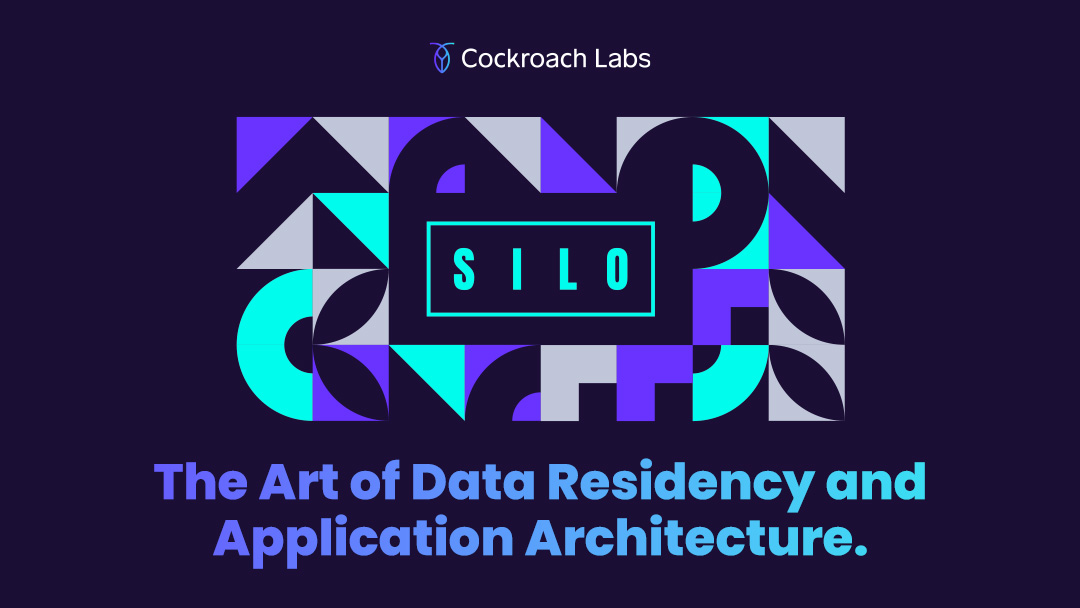
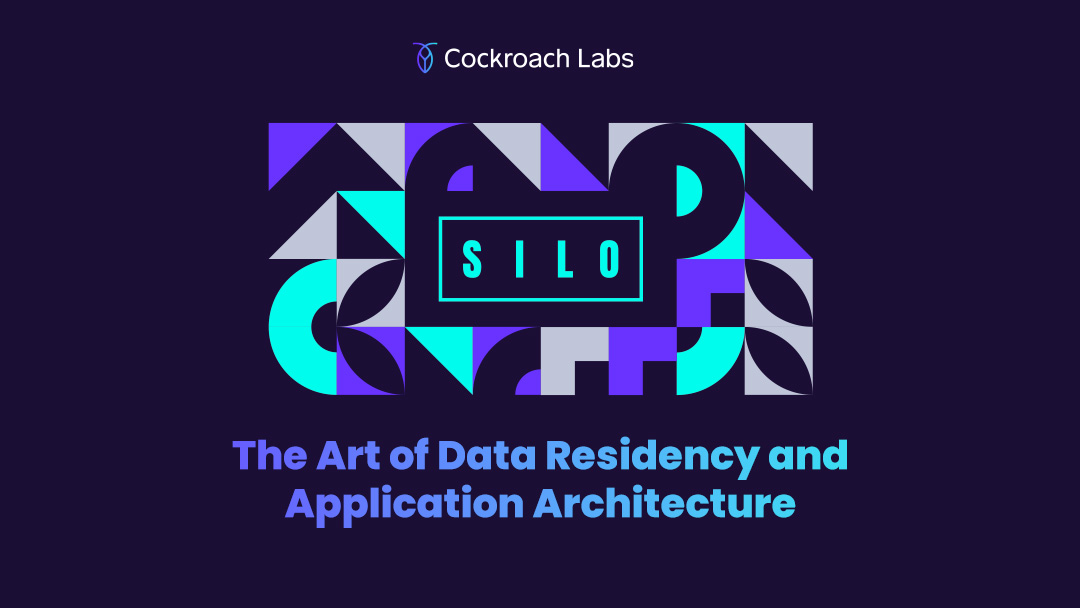
docs: update messaging from Mr Steve

Changed region(s): [[0.1222, 0.1875, 0.8556, 0.9375], [0.3667, 0.0625, 0.6111, 0.125]]

diff --git a/pages/index.js b/pages/index.js
@@ -39,7 +39,7 @@ const Page = () => {
           <SiloLockup className='mx-auto max-w-2xl ' />
           <div className='flex flex-col gap-4'>
             <h1 className='m-0 text-brand-white text-4xl md:text-6xl text-center normal-case !leading-[1.1] text-transparent bg-clip-text bg-gradient-to-r from-brand-electric-purple to-brand-iridescent-blue'>
-              The Art of Data Residency and Application Architecture.
+              The Art of Data Residency and Application Architecture
             </h1>
             <h2 className='m-0 px-4 text-brand-white text-base font-normal text-center normal-case tracking-normal font-mono font-black'>
               /* A demo of multi-region capabilities in CockroachDB. */
@@ -55,7 +55,7 @@ const Page = () => {
             <div className='flex flex-col gap-8'>
               <div className='flex flex-col gap-2'>
                 <CockroachLabsIcon className='sm:mx-auto w-16 sm:w-28' />
-                <h2 className='text-left md:text-center heading-md'>Why a Multi-Region Database?</h2>
+                <h2 className='text-left md:text-center heading-md'>Why a multi-region database?</h2>
               </div>
 
               <p className='m-0 text-left md:text-center'>
@@ -67,13 +67,13 @@ const Page = () => {
                 <CobeGlobe />
               </div>
               <p className='m-0 text-left md:text-center'>
-                Setting up and managing a multi-region database with traditional tools can be labor-intensive. But
+                Setting up and managing a multi-region database with traditional tools can be labor intensive. But
                 CockroachDB can help. A <b>distributed SQL database</b>, CockroachDB lets you pin data to specific
                 locations (servers, availability zones, or cloud regions) to optimize latency, comply with regional
                 regulations, and maintain high availability.
               </p>
               <p className='m-0 text-left md:text-center'>
-                In this demo, we illustrate CockroachDB's multi-region capabilities. We are running a{' '}
+                In this demo, we illustrate CockroachDB's multi-region capabilities. We're running a{' '}
                 <b>single logical CockroachDB serverless instance</b> spanning three AWS regions:
               </p>
               <div className='flex items-center justify-start md:justify-center'>
@@ -107,11 +107,11 @@ const Page = () => {
 
       <section className='grid md:grid-cols-2 gap-8 md:gap-16 items-center mx-auto max-w-5xl'>
         <div className='flex flex-col gap-4 md:gap-8'>
-          <h2 className='text-left md:pl-0 heading-md'>Make Your Own Art</h2>
+          <h2 className='text-left md:pl-0 heading-md'>Make your own art</h2>
           <div className='flex flex-col gap-8'>
             <p className='m-0'>
-              In this demo, you will create art that resides in specific cloud regions. Some data is stored in either
-              the <span className='text-brand-blue'>United</span> <span className='text-brand-danger'>States</span> or{' '}
+              In this demo, you'll create art that resides in specific cloud regions. Some data is stored in either the{' '}
+              <span className='text-brand-blue'>United</span> <span className='text-brand-danger'>States</span> or{' '}
               <span className='text-brand-yellow'>Europe</span>, while other data is stored in both places. That's
               because the app can write to any region from anywhere.
             </p>
@@ -136,7 +136,7 @@ const Page = () => {
             </p>
             <Link
               href='/gallery'
-              className='link-button flex gap-2 items-center border-2 border-brand-iridescent-blue text-brand-iridescent-blue capitalize no-underline transition-color duration-300 hover:text-brand-white hover:border-brand-white self-start md:self-end'
+              className='link-button flex gap-2 items-center border-2 border-brand-iridescent-blue text-brand-iridescent-blue no-underline transition-color duration-300 hover:text-brand-white hover:border-brand-white self-start md:self-end'
             >
               <svg
                 xmlns='http://www.w3.org/2000/svg'
@@ -151,7 +151,7 @@ const Page = () => {
                   d='M2.25 15.75l5.159-5.159a2.25 2.25 0 013.182 0l5.159 5.159m-1.5-1.5l1.409-1.409a2.25 2.25 0 013.182 0l2.909 2.909m-18 3.75h16.5a1.5 1.5 0 001.5-1.5V6a1.5 1.5 0 00-1.5-1.5H3.75A1.5 1.5 0 002.25 6v12a1.5 1.5 0 001.5 1.5zm10.5-11.25h.008v.008h-.008V8.25zm.375 0a.375.375 0 11-.75 0 .375.375 0 01.75 0z'
                 />
               </svg>
-              view the gallery
+              View the Gallery
             </Link>
           </div>
         </div>
@@ -163,7 +163,7 @@ const Page = () => {
 
       <section className='flex flex-col gap-16 xl:gap-24 mb-24'>
         <div className='flex flex-col gap-4 md:gap-8 mx-auto max-w-3xl'>
-          <h2 className='text-left md:text-center heading-md'>Global Data</h2>
+          <h2 className='text-left md:text-center heading-md'>Global data</h2>
           <div className='flex flex-col gap-8 text-center'>
             <p className='m-0 text-left md:text-center'>
               The artwork's pattern and logo settings are stored in both the{' '}
@@ -173,7 +173,7 @@ const Page = () => {
               data that's universally relevant.
             </p>
             <p className='m-0 text-left md:text-center'>
-              Use the toggle below to understand how the gallery data is represented in CockroachDB.
+              Use the toggle below to understand how the Gallery data is represented in CockroachDB.
             </p>
             <div className='flex md:justify-center'>
               <label className='relative inline-flex items-center mr-5 cursor-pointer'>
@@ -249,14 +249,14 @@ const Page = () => {
 
       <section className='grid md:grid-cols-2 gap-8 md:gap-16 items-center mx-auto max-w-5xl'>
         <div className='flex flex-col gap-4 md:gap-8'>
-          <h2 className='text-left md:pl-0 heading-md'>United States Data</h2>
+          <h2 className='text-left md:pl-0 heading-md'>United States data</h2>
           <div className='flex flex-col gap-8'>
             <p className='m-0 text-left'>
               Certain images and colors in the demo are stored in the <b>United States</b>. If you're located anywhere
-              in the world except <b>Europe</b> you can only see <b>United States</b> data in the gallery. <br />
+              in the world except <b>Europe</b>, you can only see <b>United States</b> data in the Gallery. <br />
               The data is replicated between CockroachDB instances on the{' '}
               <span className='text-brand-blue'>East coast</span> and{' '}
-              <span className='text-brand-danger'>West coast</span> to provide high-availability and guard against
+              <span className='text-brand-danger'>West coast</span> to provide high availability and guard against
               regional outages.
             </p>
             <TryDemoLink className='self-start' />
@@ -270,7 +270,7 @@ const Page = () => {
 
       <section className='grid md:grid-cols-2 gap-8 md:gap-16 items-center mx-auto max-w-5xl'>
         <div className='flex flex-col md:order-1 gap-4 md:gap-8'>
-          <h2 className='text-left md:text-right heading-md'>European Data</h2>
+          <h2 className='text-left md:text-right heading-md'>European data</h2>
           <div className='flex flex-col gap-8'>
             <p className='m-0 text-left md:text-right'>
               Certain images and colors in the demo are stored in <b>Europe</b> and will never be available outside of
@@ -289,7 +289,7 @@ const Page = () => {
 
       <section className='flex flex-col gap-8'>
         <div className='flex flex-col gap-8 mx-auto max-w-3xl'>
-          <h2 className='text-center heading-md'>Learn How It Works</h2>
+          <h2 className='text-center heading-md'>Learn how it works</h2>
           <div className='flex flex-col gap-8'>
             <p className='m-0 text-center'>
               We've written an in-depth blog post explaining how we used AWS multi-region application architecture
@@ -316,7 +316,7 @@ const Page = () => {
                     d='M19.5 14.25v-2.625a3.375 3.375 0 00-3.375-3.375h-1.5A1.125 1.125 0 0113.5 7.125v-1.5a3.375 3.375 0 00-3.375-3.375H8.25m0 12.75h7.5m-7.5 3H12M10.5 2.25H5.625c-.621 0-1.125.504-1.125 1.125v17.25c0 .621.504 1.125 1.125 1.125h12.75c.621 0 1.125-.504 1.125-1.125V11.25a9 9 0 00-9-9z'
                   />
                 </svg>
-                Read Post
+                Read post
               </a>
             </div>
           </div>

diff --git a/pages/app.js b/pages/app.js
@@ -5,6 +5,7 @@ import Image from 'next/image'
 
 import { AppContext } from '../context/app-context'
 
+import SignInLink from '../components/sign-in-link'
 import LocalInterface from '../components/local-interface'
 import RegionHeading from '../components/region-heading'
 import GlobalInterface from '../components/global-interface'
@@ -28,16 +29,21 @@ const Page = () => {
   return (
     <section className='flex flex-col gap-24'>
       <article className='flex flex-col gap-4 text-center mx-auto max-w-3xl'>
-        <h1 className='heading-lg'>Make Your Own Art</h1>
-        <div className='mx-auto max-w-xl'>
-          <h2 className=' m-0 p-0 text-brand-white text-lg sm:text-3xl'>
-            <StepXofX value={1} /> Sign in with GitHub or LinkedIn
-          </h2>
-          <p className='mt-0 text-center'>
-            Create artwork that will be physically stored in different CockroachDB nodes around the world.
-          </p>
+        <h1 className='heading-lg'>Make your own art</h1>
+        <div className='flex flex-col gap-4 mx-auto max-w-xl'>
+          <div>
+            <h2 className=' m-0 p-0 text-brand-white text-lg sm:text-3xl'>
+              <StepXofX value={1} /> Sign in with GitHub or LinkedIn
+            </h2>
+            <p className='m-0 text-center'>
+              Create artwork that will be physically stored in different CockroachDB nodes around the world.
+            </p>
+          </div>
+          <div>
+            <SignInLink />
+          </div>
           <small className='block text-brand-gray-b text-center'>
-            If you want to save your art to the gallery, you must sign in before you start creating. If you don't want
+            If you want to save your art to the Gallery, you must sign in before you start creating. If you don't want
             to save your art, you can still interact with the application.
           </small>
         </div>
@@ -55,7 +61,7 @@ const Page = () => {
                   This art will be written to <code>us-east-1</code> and replicated to <code>us-west-2</code>.
                 </strong>
                 <small className='text-brand-gray-b'>
-                  Only users outside of Europe will be able to view this artwork in the gallery.
+                  Only users outside of Europe will be able to view this artwork in the Gallery.
                 </small>
               </div>
               <RegionHeading flag='🇺🇸' regionId='USA' region='us-east-1 | (N. Virginia)' />
@@ -68,7 +74,7 @@ const Page = () => {
                   This art will be written to <code>us-west-2</code> and replicated to <code> us-east-1</code>.
                 </strong>
                 <small className='text-brand-gray-b'>
-                  Only users outside of Europe will be able to view this artwork in the gallery.
+                  Only users outside of Europe will be able to view this artwork in the Gallery.
                 </small>
                 <RegionHeading flag='🇺🇸' regionId='USA' region='us-west-2 | (Oregon)' />
               </div>
@@ -86,7 +92,7 @@ const Page = () => {
                   This art will be written to <code>eu-central-1</code>.
                 </strong>
                 <small className='text-brand-gray-b'>
-                  Only users inside of Europe will be able to view this artwork in the gallery.
+                  Only users inside of Europe will be able to view this artwork in the Gallery.
                 </small>
               </div>
               <RegionHeading flag='🇩🇪' regionId='Germany' region='eu-central-1 | (Frankfurt)' />
@@ -102,7 +108,7 @@ const Page = () => {
                 <StepXofX value={4} /> Apply art settings globally
               </h2>
               <strong>
-                Settings you apply here are written to <code>us-east-1</code>, <code>us-west-2</code> and{' '}
+                Settings you apply here are written to <code>us-east-1</code>, <code>us-west-2</code>, and{' '}
                 <code>eu-central-1</code>.
               </strong>
               <small className='text-brand-gray-b'>
@@ -137,9 +143,9 @@ const Page = () => {
 
                   <div className=' flex flex-col gap-4 px-8 py-8 sm:py-16 w-full z-10'>
                     <div className='flex flex-col gap-2'>
-                      <h2 className='m-0 p-0 text-brand-white text-xl sm:text-3xl normal-case text-center tracking-normal font-sans !capitalize'>
+                      <h2 className='m-0 p-0 text-brand-white text-xl sm:text-3xl normal-case text-center tracking-normal font-sans'>
                         <StepXofX value={5} />
-                        preview your art!
+                        Preview your art
                       </h2>
                       <p className='text-center mx-auto max-w-xl'>Open a large preview of your artwork.</p>
                     </div>

diff --git a/components/get-started-with-cockroachdb.js b/components/get-started-with-cockroachdb.js
@@ -1,14 +1,14 @@
 import React from 'react'
 
 const GetStartedWithCockroachDB = () => {
-  const list = ['No credit card required.', 'Free up to 10 GB storage.', 'Single-click deployment.']
+  const list = ['No credit card required', 'Free storage up to 10 GB', 'Single-click deployment']
 
   return (
     <section className='border-2 border-depth-2 grid gap-8 lg:gap-4 p-8 md:p-16 w-full mx-auto max-w-6xl'>
       <div className='flex flex-col gap-4 justify-center mx-auto'>
         <h2 className='flex flex-col xl:flex-row lg:gap-2 heading-md text-transparent bg-clip-text bg-gradient-to-r from-brand-electric-purple to-brand-iridescent-blue'>
-          <span className='text-transparent'>Get Started With</span>
-          <span className='text-transparent'>CockroachDB Today</span>
+          <span className='text-transparent'>Get started with</span>
+          <span className='text-transparent'>CockroachDB today</span>
         </h2>
         <ul className='mx-auto m-0 p-0 space-y-2 lg:columns-3'>
           {list.map((item, index) => {
@@ -39,7 +39,7 @@ const GetStartedWithCockroachDB = () => {
           href='https://cockroachlabs.cloud/signup?utm_source=demo-mr'
           target='_blank'
           rel='noopener'
-          className='link-button flex gap-2 items-center self-center border-2 border-brand-iridescent-blue text-brand-iridescent-blue capitalize no-underline transition-color duration-300 hover:text-brand-white hover:border-brand-white'
+          className='link-button flex gap-2 items-center self-center border-2 border-brand-iridescent-blue text-brand-iridescent-blue no-underline transition-color duration-300 hover:text-brand-white hover:border-brand-white'
         >
           <svg
             xmlns='http://www.w3.org/2000/svg'
@@ -54,7 +54,7 @@ const GetStartedWithCockroachDB = () => {
               d='M13.5 6H5.25A2.25 2.25 0 003 8.25v10.5A2.25 2.25 0 005.25 21h10.5A2.25 2.25 0 0018 18.75V10.5m-10.5 6L21 3m0 0h-5.25M21 3v5.25'
             />
           </svg>
-          sign up
+          Sign up
         </a>
       </div>
     </section>

diff --git a/components/try-demo-link.js b/components/try-demo-link.js
@@ -7,7 +7,7 @@ const TryDemoLink = ({ className }) => {
   return (
     <Link
       href='/app'
-      className={`link-button flex gap-2 items-center border-2 border-brand-iridescent-blue text-brand-iridescent-blue capitalize no-underline transition-color duration-300 hover:text-brand-white hover:border-brand-white ${className}`}
+      className={`link-button flex gap-2 items-center border-2 border-brand-iridescent-blue text-brand-iridescent-blue  no-underline transition-color duration-300 hover:text-brand-white hover:border-brand-white ${className}`}
     >
       <svg xmlns='http://www.w3.org/2000/svg' fill='none' viewBox='0 0 24 24' strokeWidth={1.5} stroke='currentColor'>
         <path
@@ -16,7 +16,7 @@ const TryDemoLink = ({ className }) => {
           d='M9.53 16.122a3 3 0 00-5.78 1.128 2.25 2.25 0 01-2.4 2.245 4.5 4.5 0 008.4-2.245c0-.399-.078-.78-.22-1.128zm0 0a15.998 15.998 0 003.388-1.62m-5.043-.025a15.994 15.994 0 011.622-3.395m3.42 3.42a15.995 15.995 0 004.764-4.648l3.876-5.814a1.151 1.151 0 00-1.597-1.597L14.146 6.32a15.996 15.996 0 00-4.649 4.763m3.42 3.42a6.776 6.776 0 00-3.42-3.42'
         />
       </svg>
-      try the demo
+      Try the demo
     </Link>
   )
 }

diff --git a/components/sign-in-link.js b/components/sign-in-link.js
@@ -7,7 +7,7 @@ const SignInLink = ({ onClick }) => {
   return (
     <Link
       href='/sign-in'
-      className='border-2 px-4 py-2 text-brand-pink text-center border-brand-pink transition-color duration-300 hover:text-brand-white hover:border-brand-white w-full'
+      className='border-2 px-4 py-2 text-brand-pink text-center border-brand-pink transition-color duration-300 hover:text-brand-white hover:border-brand-white w-full no-underline'
       onClick={onClick}
     >
       Sign in

diff --git a/components/open-preview-link.js b/components/open-preview-link.js
@@ -13,7 +13,7 @@ const OpenPreviewLink = ({ session, disabled }) => {
             d='M13.5 6H5.25A2.25 2.25 0 003 8.25v10.5A2.25 2.25 0 005.25 21h10.5A2.25 2.25 0 0018 18.75V10.5m-10.5 6L21 3m0 0h-5.25M21 3v5.25'
           />
         </svg>
-        Open Preview
+        Open preview
       </Fragment>
     )
   }
